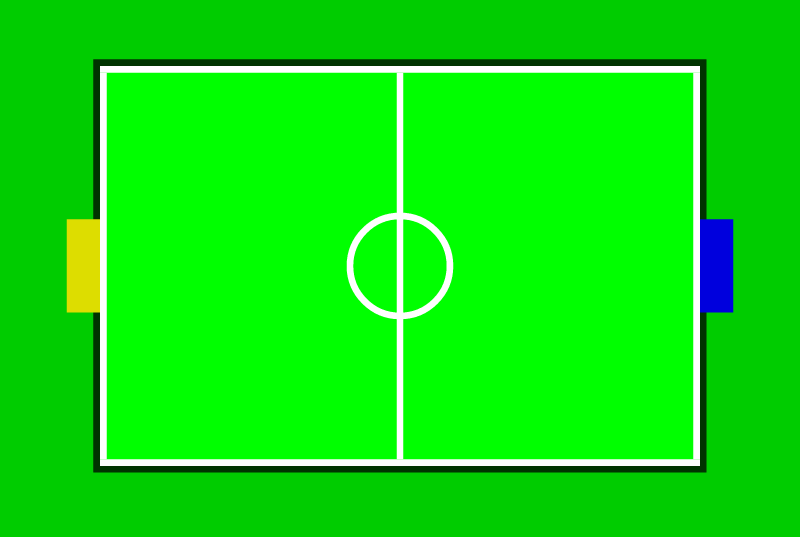
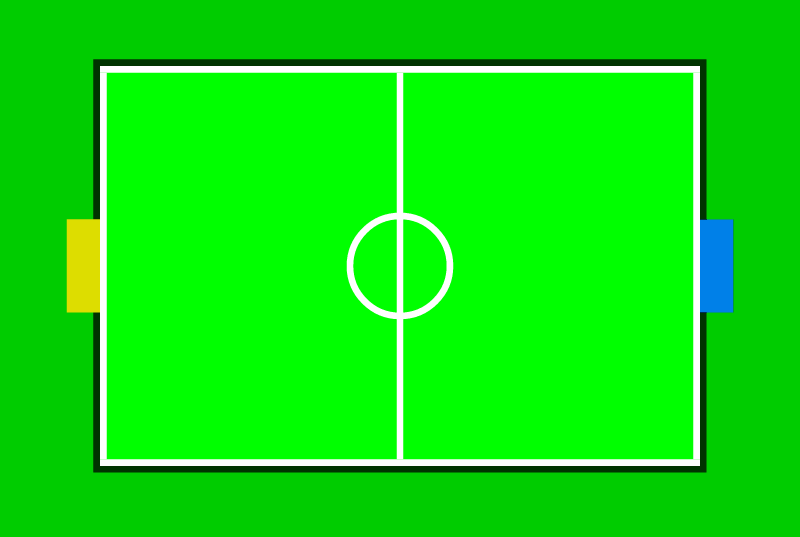
Updated dash. Should now properly draw robots with colors, their movement vectors. Also updated goal blue (Very important).

Changed region(s): [[0.875, 0.3873, 0.9375, 0.5959]]

diff --git a/Dashboard/library/dash/Renderer.js b/Dashboard/library/dash/Renderer.js
@@ -6,7 +6,7 @@ Dash.Renderer = function(id) {
 	this.driveToOrientation = 0.0;
 	this.mouseX = 0;
 	this.mouseY = 0;
-	
+
 	this.wheelGraphs = {
 		FL: null,
 		FR: null,
@@ -19,14 +19,14 @@ Dash.Renderer = function(id) {
 Dash.Renderer.prototype.init = function() {
 	this.element = document.getElementById(this.id);
 	this.c = this.element.getContext('2d');
-	
+
 	this.widthToHeightRatio = 4.5 / 3.0;
 	this.canvasWidth = 600;
 	this.canvasHeight = this.canvasWidth / this.widthToHeightRatio;
 	this.canvasToWorldRatio = this.canvasWidth / 4.5;
 	this.fieldOffsetX = -(6.0 - 4.5) / 2;
 	this.fieldOffsetY = -(4.0 - 3.0) / 2;
-	
+
 	this.c.setTransform(
 		this.canvasToWorldRatio,
 		0,
@@ -35,10 +35,10 @@ Dash.Renderer.prototype.init = function() {
 		100,
 		66
 	);
-		
+
 	this.width = this.element.width;
 	this.height = this.element.height;
-	
+
 	this.wheelGraphs = {
 		FL: new Dash.WheelGraph('wheel-graph-fl'),
 		FR: new Dash.WheelGraph('wheel-graph-fr'),
@@ -48,7 +48,7 @@ Dash.Renderer.prototype.init = function() {
 
 	this.voltageGraph = new Dash.WheelGraph('voltage-graph');
 	this.voltageGraph.init();
-	
+
 	for (var name in this.wheelGraphs) {
 		this.wheelGraphs[name].init();
 	}
@@ -91,14 +91,20 @@ Dash.Renderer.prototype.showDriveTo = function() {
 	this.driveToOrientation = 0.0;
 };
 
-Dash.Renderer.prototype.drawRobots = function(robots, color, radius) {
+Dash.Renderer.prototype.drawRobotsColored = function(robots, color, radius) {
 	for (var i = 0; i < robots.length; i++) {
-		this.drawOtherRobot(robots[i], color, radius);
+		this.drawOtherRobotColored(robots[i], color, radius);
 	}
 }
 
-Dash.Renderer.prototype.drawOtherRobot = function(robot, color, radius) {
-	this.drawRobot(radius, color, robot.x, robot.y, 0, false);
+Dash.Renderer.prototype.drawRobots = function(robots, radius) {
+	for (var i = 0; i < robots.length; i++) {
+		this.drawRobotVelocity(robots[i], radius);
+	}
+}
+
+Dash.Renderer.prototype.drawOtherRobotColored = function(robot, color, radius) {
+	this.drawRobot(radius, color, robot.x, robot.y, Math.atan(robot.velocityY/robot.velocityX) * 180 / Math.PI, false);
 }
 
 Dash.Renderer.prototype.drawRobot = function(radius, color, x, y, orientation, gotBall) {
@@ -108,7 +114,7 @@ Dash.Renderer.prototype.drawRobot = function(radius, color, x, y, orientation, g
 	this.c.rotate(orientation);
 	this.c.fillStyle = color;
 	this.c.beginPath();
-	this.c.arc(0, 0, radius, 0, Math.PI * 2, true); 
+	this.c.arc(0, 0, radius, 0, Math.PI * 2, true);
 	this.c.closePath();
 	this.c.fill();
 
@@ -125,7 +131,42 @@ Dash.Renderer.prototype.drawRobot = function(radius, color, x, y, orientation, g
 		this.c.closePath();
 		this.c.fill();
 	}
-	
+
+	this.c.restore();
+};
+
+Dash.Renderer.prototype.drawRobotVelocity = function(robot, radius) {
+	this.c.save();
+
+	var drawColor = '#E411BE';
+	switch (robot.color) {
+		case "pink":
+			drawColor = '#FF60CA';
+			break;
+		case "purple":
+			drawColor = '#8808D8';
+			break
+		case "unknown":
+			drawColor = '#FF0000';
+			break;
+	}
+
+	this.c.translate(robot.x, robot.y);
+	this.c.fillStyle = drawColor;
+	this.c.beginPath();
+	this.c.arc(0, 0, radius, 0, Math.PI * 2, true);
+	this.c.closePath();
+	this.c.fill();
+
+	var dirHeight = radius / 5;
+
+	this.c.lineWidth = 2 / this.canvasToWorldRatio;
+	this.c.strokeStyle = '#FFF';
+	this.c.beginPath();
+	this.c.moveTo(0, 0);
+	this.c.lineTo(robot.velocityX, robot.velocityY);
+	this.c.stroke();
+
 	this.c.restore();
 };
 
@@ -256,7 +297,7 @@ Dash.Renderer.prototype.drawParticle = function(x, y) {
 
 Dash.Renderer.prototype.drawRuler = function() {
 	this.c.save();
-	
+
 	this.c.beginPath();
 	this.c.lineWidth = 0.3;
 	this.c.strokeStyle = '#090';
@@ -264,7 +305,7 @@ Dash.Renderer.prototype.drawRuler = function() {
 	this.c.lineTo(3.0, 1.0);
 	this.c.closePath();
 	this.c.stroke();
-	
+
 	this.c.restore();
 };
 
@@ -352,9 +393,9 @@ Dash.Renderer.prototype.drawDriveTo = function(x, y) {
 
 Dash.Renderer.prototype.renderState = function(state) {
 	this.c.clearRect(-1, -1, this.width + 1, this.height + 1);
-	
+
 	//this.drawRuler();
-	
+
 	this.drawRobot(
 		dash.config.robot.radius,
 		state.targetSide == 1 ? '#00F' : state.targetSide == 0 ? '#DD0' : '#CCC',
@@ -376,18 +417,17 @@ Dash.Renderer.prototype.renderState = function(state) {
 
 	this.drawPolygon(state.robot.cameraFOV, 'rgba(255, 255, 255, 0.25)');
 
-	this.drawRobots(
+	this.drawRobotsColored(
 		state.robot.robotsRaw,
 		'#40175A',
 		dash.config.robot.radius
 	);
-	
+
 	this.drawRobots(
 		state.robot.robotsFiltered,
-		'#E411BE',
-		dash.config.robot.radius / 2
+		dash.config.robot.radius / 1.3
 	);
-	
+
 	this.drawBalls(
 		state.robot.ballsGoingBlue,
 		'#00F',
@@ -433,8 +473,8 @@ Dash.Renderer.prototype.renderState = function(state) {
 				state.controllerState.particleLocalizer.y,
 				state.controllerState.particleLocalizer.orientation
 			);
-			
-			
+
+
 			if (typeof state.controllerState.particleLocalizer.particles !== 'undefined') {
 				for (var i = 0; i < state.controllerState.particleLocalizer.particles.length; i++) {
 					this.drawParticle(
@@ -461,7 +501,7 @@ Dash.Renderer.prototype.renderState = function(state) {
 	if (this.renderDriveTo) {
 		this.drawDriveTo();
 	}
-		
+
 	this.wheelGraphs.FL.render.apply(this.wheelGraphs.FL, [state, 'wheelFL']);
 	this.wheelGraphs.FR.render.apply(this.wheelGraphs.FR, [state, 'wheelFR']);
 	this.wheelGraphs.RL.render.apply(this.wheelGraphs.RL, [state, 'wheelRL']);

diff --git a/Dashboard/style/screen.css b/Dashboard/style/screen.css
@@ -84,7 +84,7 @@ A:hover {
 	background-color: #FF0;
 }
 #status.blue {
-	background-color: #00F;
+	background-color: #08F;
 }
 #status.go {
 	border-color: #090;
